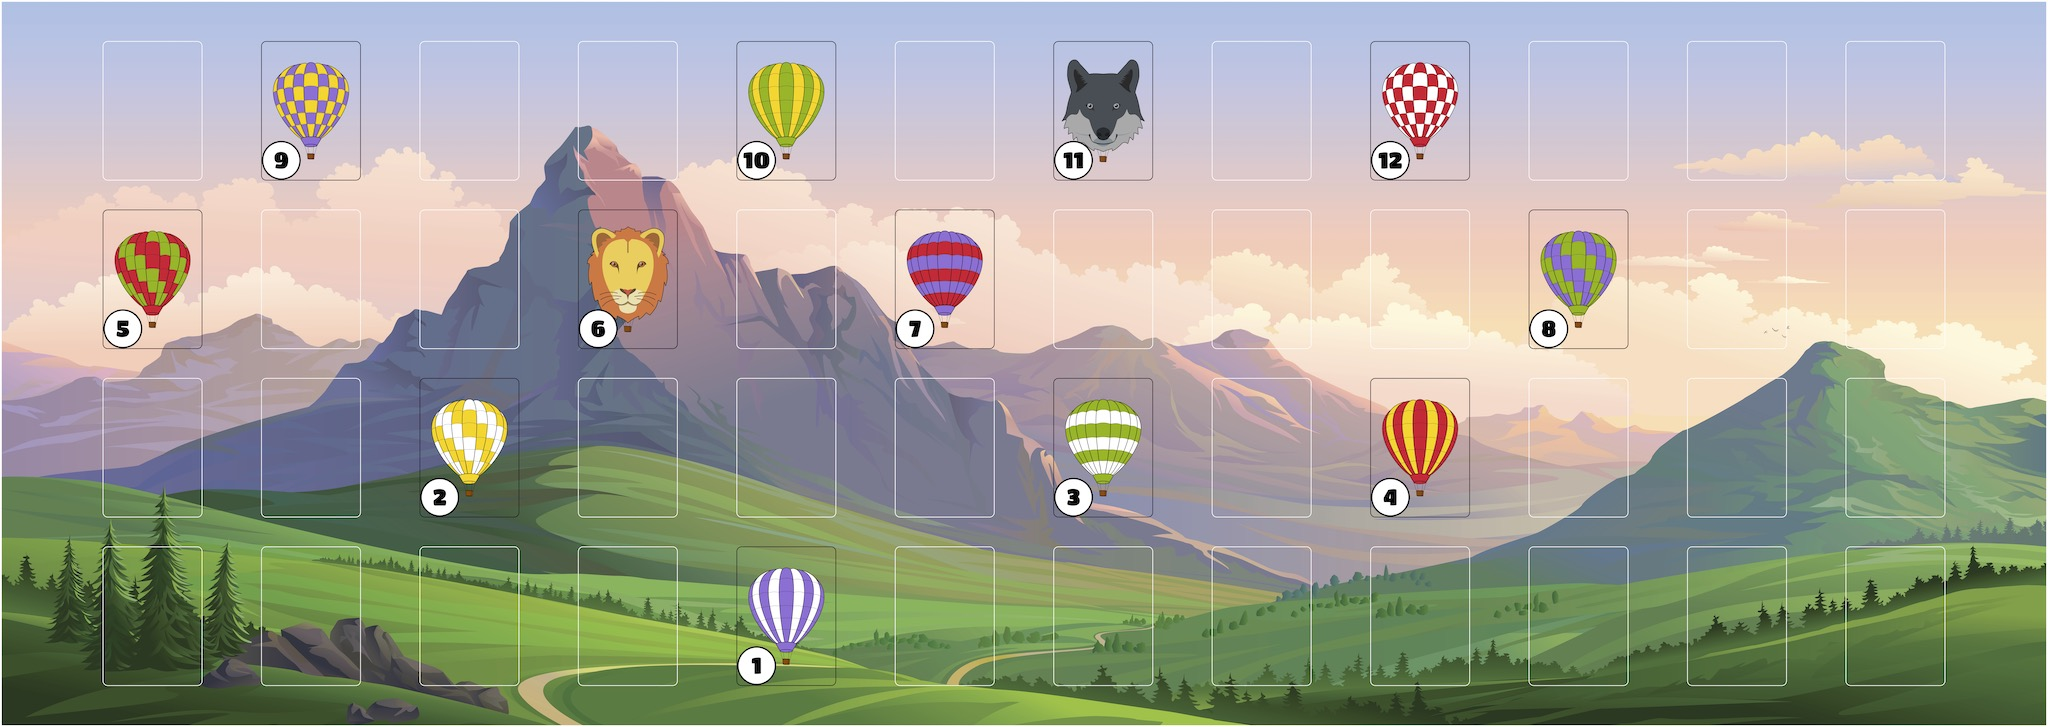
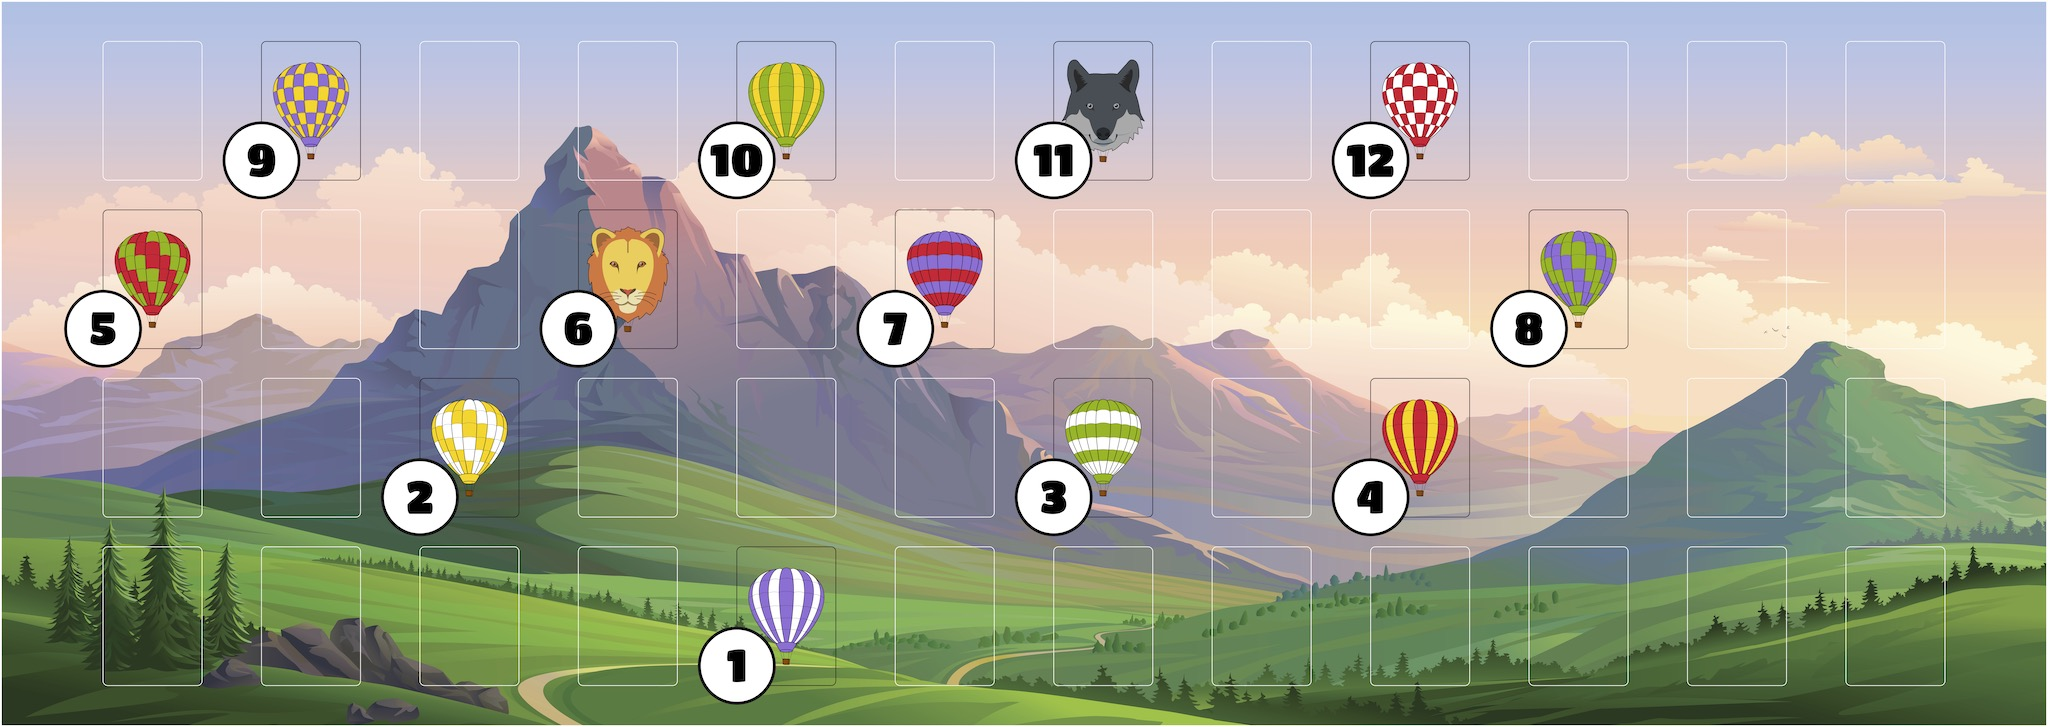
Bigger labels on scoring diagram

diff --git a/scoring_diagram.tex b/scoring_diagram.tex
@@ -15,40 +15,40 @@
 
 
 \node[cardposition] at (-44, 8.5) {\includegraphics[height=3.25in]{Images/diag_gr.png}};
-\node[circle] at (-44.75,7.25) {\includegraphics[width=25mm]{Images/scoring_token_5.png}};
+\node[circle] at (-45.25,7.25) {\includegraphics[width=50mm]{Images/scoring_token_5.png}};
 
 \node[cardposition] at (-40, 12.75) {\includegraphics[height=3.25in]{Images/grid_py.png}};
-\node[circle] at (-40.75,11.5) {\includegraphics[width=25mm]{Images/scoring_token_9.png}};
+\node[circle] at (-41.25,11.5) {\includegraphics[width=50mm]{Images/scoring_token_9.png}};
 
 \node[cardposition] at (-36, 4.25) {\includegraphics[height=3.25in]{Images/diag_wy.png}};
-\node[circle] at (-36.75,3) {\includegraphics[width=25mm]{Images/scoring_token_2.png}};
+\node[circle] at (-37.25,3) {\includegraphics[width=50mm]{Images/scoring_token_2.png}};
 
 \node[cardposition] at (-32, 8.5) {\includegraphics[height=3.25in]{Images/lion.png}};
-\node[circle] at (-32.75,7.25) {\includegraphics[width=25mm]{Images/scoring_token_6.png}};
+\node[circle] at (-33.25,7.25) {\includegraphics[width=50mm]{Images/scoring_token_6.png}};
 
 \node[cardposition] at (-28, 0) {\includegraphics[height=3.25in]{Images/vert_pw.png}};
-\node[circle] at (-28.75,-1.25) {\includegraphics[width=25mm]{Images/scoring_token_1.png}};
+\node[circle] at (-29.25,-1.25) {\includegraphics[width=50mm]{Images/scoring_token_1.png}};
 
 \node[cardposition] at (-28, 12.75) {\includegraphics[height=3.25in]{Images/vert_gy.png}};
-\node[circle] at (-28.75,11.5) {\includegraphics[width=25mm]{Images/scoring_token_10.png}};
+\node[circle] at (-29.25,11.5) {\includegraphics[width=50mm]{Images/scoring_token_10.png}};
 
 \node[cardposition] at (-24, 8.5) {\includegraphics[height=3.25in]{Images/horiz_pr.png}};
-\node[circle] at (-24.75,7.25) {\includegraphics[width=25mm]{Images/scoring_token_7.png}};
+\node[circle] at (-25.25,7.25) {\includegraphics[width=50mm]{Images/scoring_token_7.png}};
 
 \node[cardposition] at (-20, 12.75) {\includegraphics[height=3.25in]{Images/wolf.png}};
-\node[circle] at (-20.75,11.5) {\includegraphics[width=25mm]{Images/scoring_token_11.png}};
+\node[circle] at (-21.25,11.5) {\includegraphics[width=50mm]{Images/scoring_token_11.png}};
 
 \node[cardposition] at (-20, 4.25) {\includegraphics[height=3.25in]{Images/horiz_gw.png}};
-\node[circle] at (-20.75,3) {\includegraphics[width=25mm]{Images/scoring_token_3.png}};
+\node[circle] at (-21.25,3) {\includegraphics[width=50mm]{Images/scoring_token_3.png}};
 
 \node[cardposition] at (-12, 4.25) {\includegraphics[height=3.25in]{Images/vert_ry.png}};
-\node[circle] at (-12.75,3) {\includegraphics[width=25mm]{Images/scoring_token_4.png}};
+\node[circle] at (-13.25,3) {\includegraphics[width=50mm]{Images/scoring_token_4.png}};
 
 \node[cardposition] at (-12, 12.75) {\includegraphics[height=3.25in]{Images/grid_rw.png}};
-\node[circle] at (-12.75,11.5) {\includegraphics[width=25mm]{Images/scoring_token_12.png}};
+\node[circle] at (-13.25,11.5) {\includegraphics[width=50mm]{Images/scoring_token_12.png}};
 
 \node[cardposition] at (-8, 8.5) {\includegraphics[height=3.25in]{Images/diag_gp.png}};
-\node[circle] at (-8.75,7.25) {\includegraphics[width=25mm]{Images/scoring_token_8.png}};
+\node[circle] at (-9.25,7.25) {\includegraphics[width=50mm]{Images/scoring_token_8.png}};
 
 \end{tikzpicture}
 
